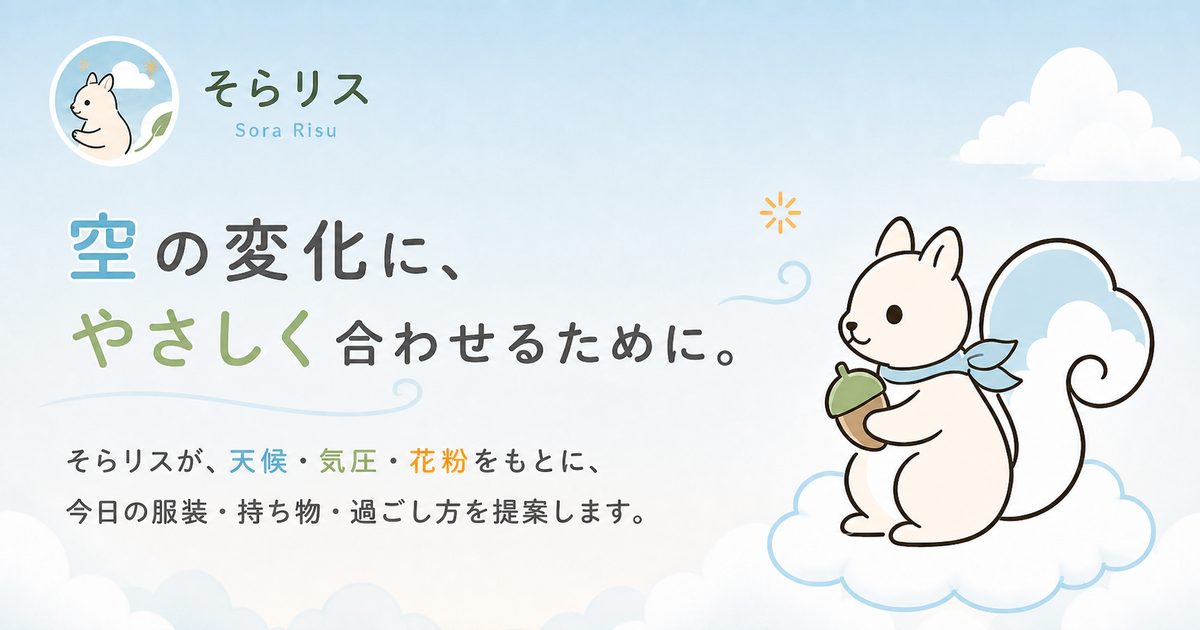
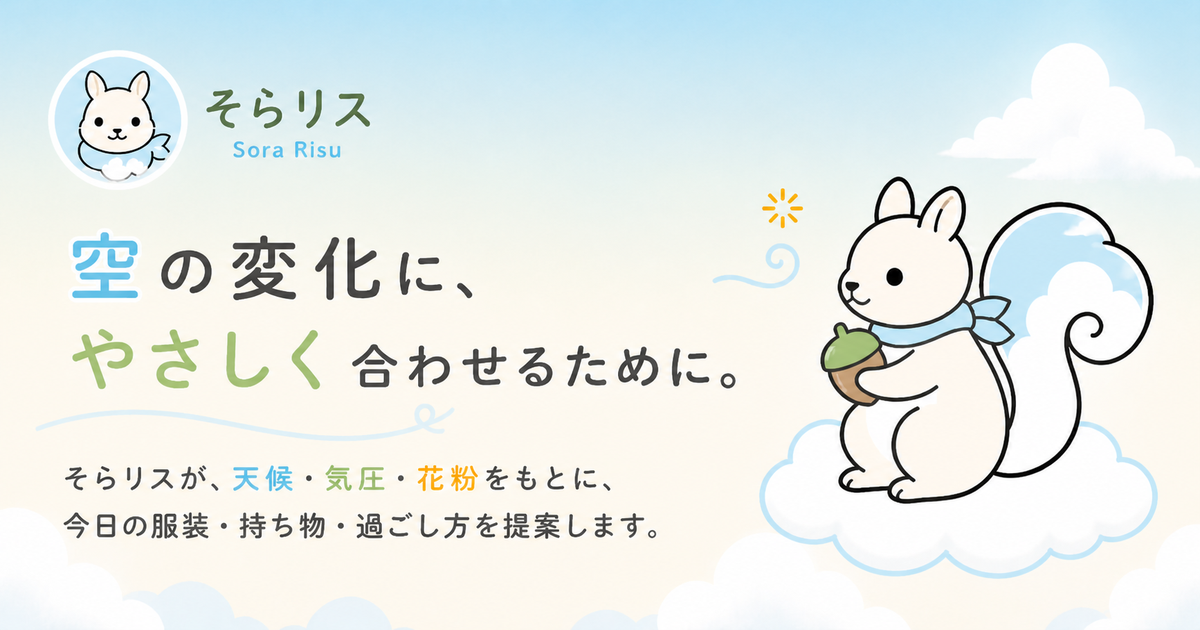
feat: ロゴとOGP画像を差し替え、設定カードのマスコット配置を調整
- ロゴを横向き構図から正面顔の丸ロゴに差し替え
- OGP画像をそらリス_3版に差し替え（1200×630にリサイズ）
- 設定カードのマスコットを下右配置・サイズ96に調整

diff --git a/src/components/settings/SettingsPanel.tsx b/src/components/settings/SettingsPanel.tsx
@@ -101,13 +101,13 @@ export function SettingsPanel() {
           </div>
         </div>
       </CardContent>
-      <div className="absolute -bottom-5 right-1 z-10 sm:-bottom-6 sm:right-2">
+      <div className="absolute bottom-2 right-1 z-10 sm:bottom-3 sm:right-2">
         <SoraRisuPopover
           pose="on-cloud"
-          size={112}
+          size={96}
           ariaLabel="そらリスのこと"
           placement="left"
-          popoverClassName="w-[27rem] max-w-[calc(100vw-2rem)]"
+          popoverClassName="w-[min(27rem,calc(100vw-9rem))]"
         >
           <p className="font-brand text-sm text-ink-800">そらリスのこと</p>
           <p className="mt-1.5 text-[13px] leading-5 text-ink-600">